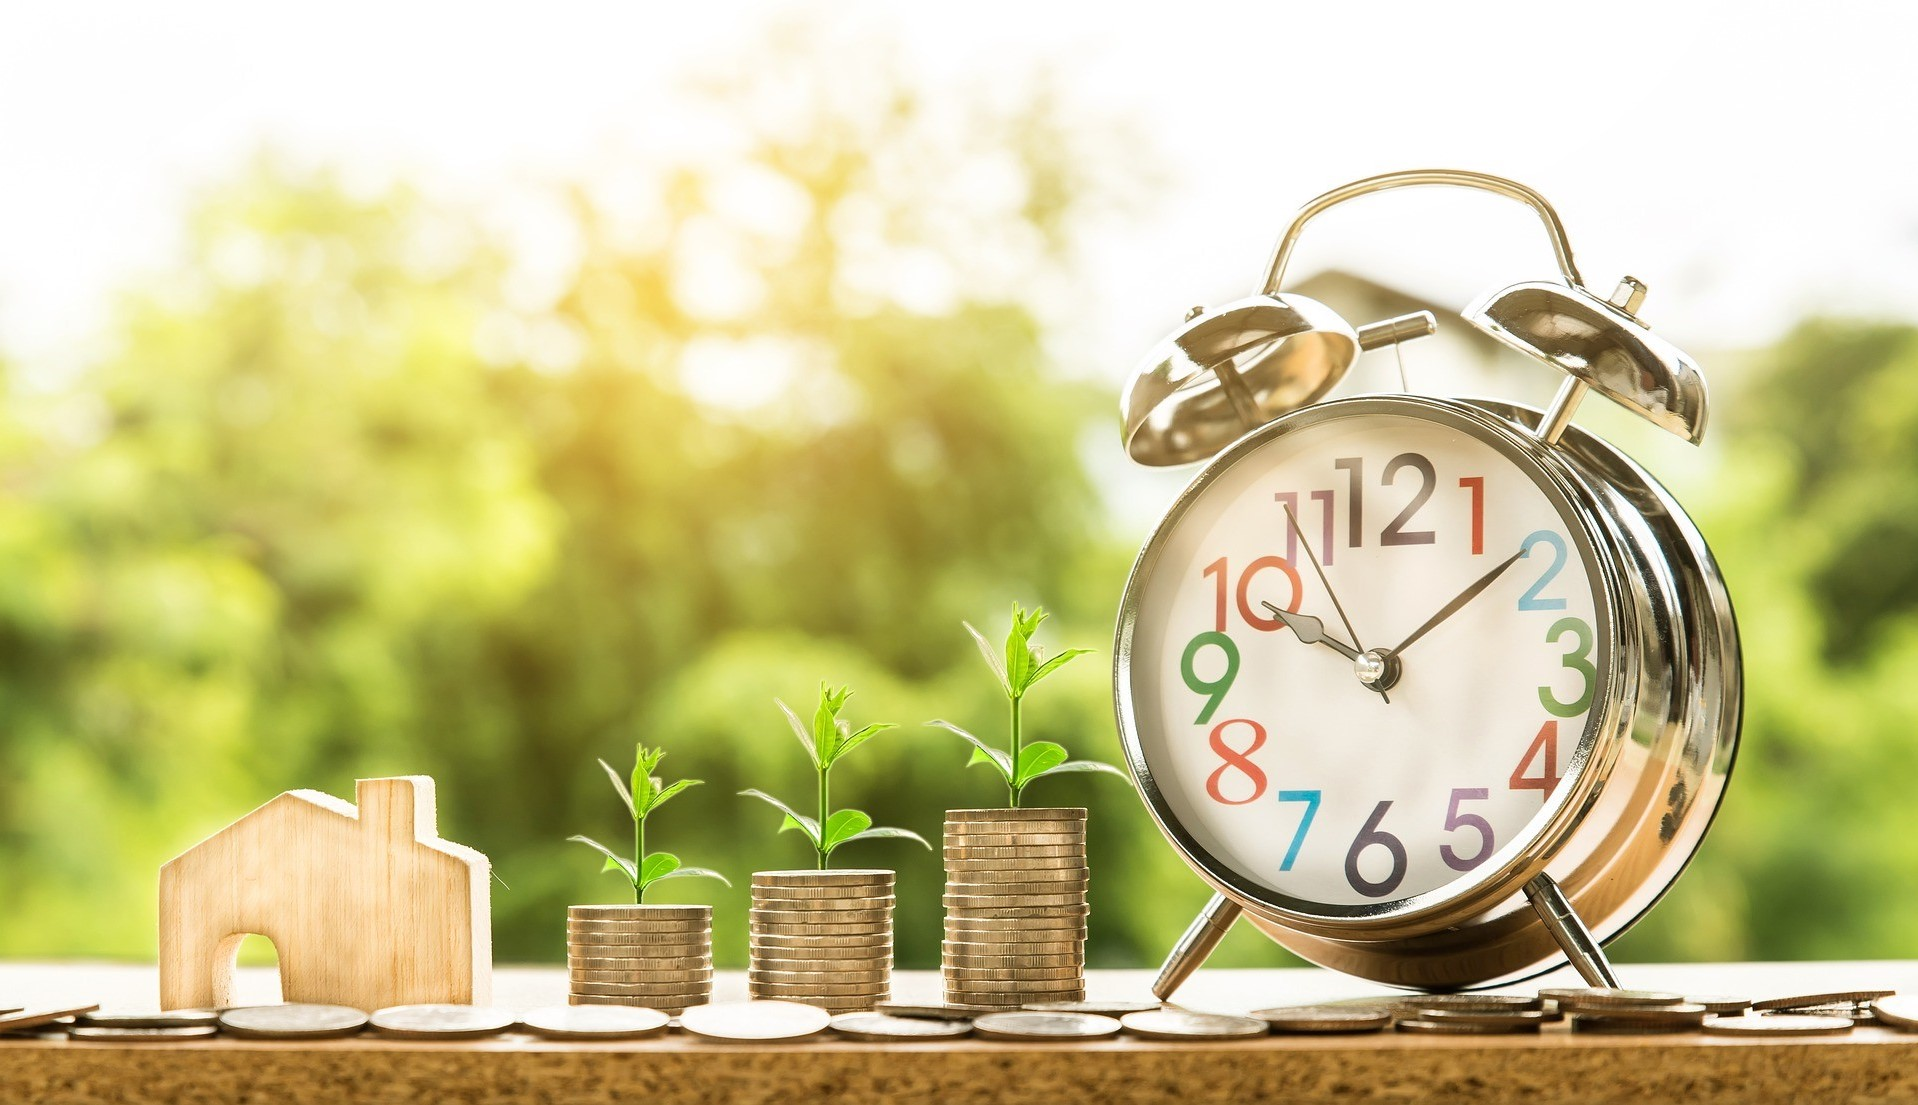
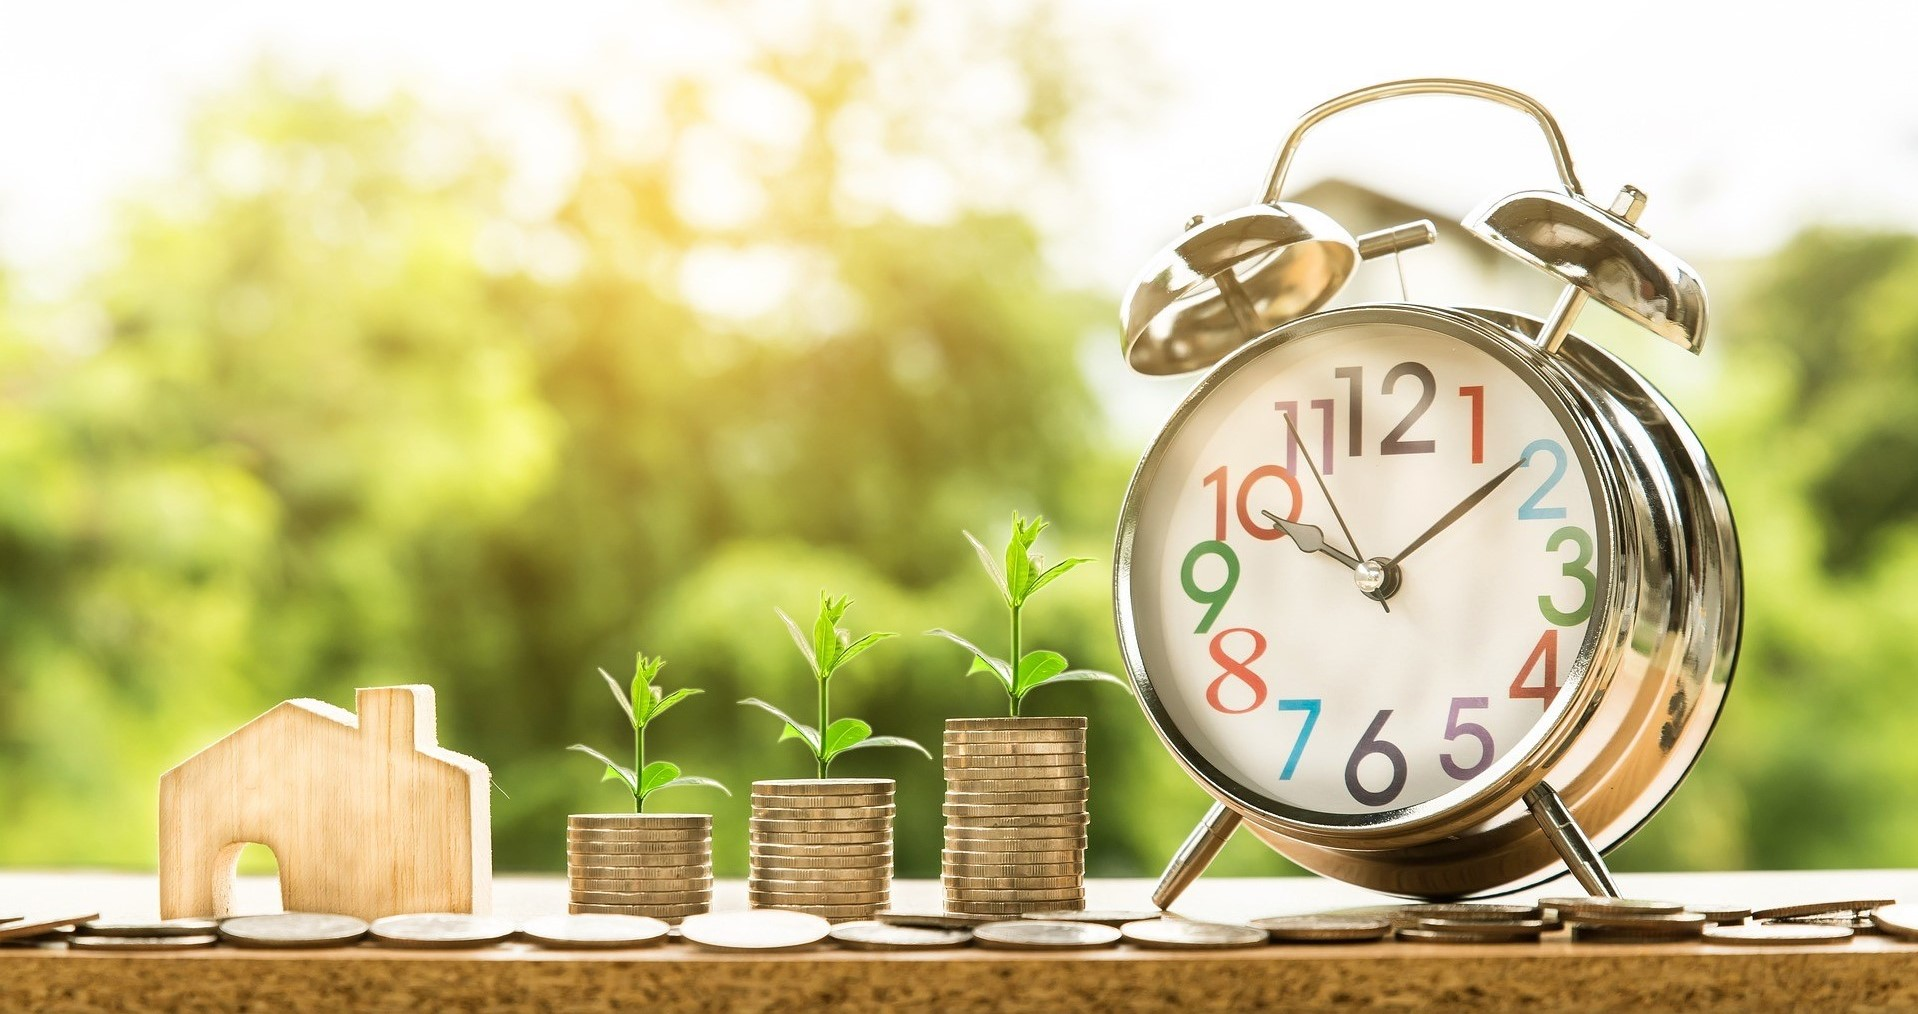
add meta

diff --git a/css/login.css b/css/login.css
@@ -1202,7 +1202,7 @@ body {
   font-family: 'Open Sans', 'Segoe UI' /*rtl:"Droid Arabic Kufi", "WYekan"*/;
   font-size: 13px;
   color: #444444;
-  background: url('../img/banner5.jpg')  no-repeat;
+  background: url('../img/banner1.jpg')  no-repeat;
   background-size: cover;
 }
 body:before {

diff --git a/header.php b/header.php
@@ -9,19 +9,22 @@ if ($_SERVER['REQUEST_URI'] == "/" || strpos($_SERVER['REQUEST_URI'], "index") !
 ?>
   <!DOCTYPE html>
   <html lang="en">
-
   <head>
-    <meta charset="utf-8">
-    <meta http-equiv="X-UA-Compatible" content="IE=edge">
-    <meta name="viewport" content="width=device-width, initial-scale=1">
-    <meta name="description" content="PHP - OOP">
-    <meta name="author" content="NottDev">
+    <!-- Twitter meta-->
+    <meta property="twitter:card" content="summary_large_image">
+    <meta property="twitter:site" content="@nottdev.com">
+    <meta property="twitter:creator" content="@NottDev">
+    <!-- Open Graph Meta-->
     <meta property="og:type" content="website">
-	  <meta property="og:site_name" content="Noob Bank">
-	  <meta property="og:title" content="Noob Bank with PHP OOP">
-	  <meta property="og:url" content="https://noobbank.nottdev.com/">
-	  <meta property="og:image" content="https://noobbank.nottdev.com/img/banner-show.png">
-    <link rel="icon" type="image/png" sizes="16x16" href="img/favicon.ico">
+    <meta property="og:site_name" content="Noob Bank">
+    <meta property="og:title" content="Noob Bank with PHP OOP">
+    <meta property="og:url" content="https://noobbank.nottdev.com/">
+    <meta property="og:image" content="https://noobbank.nottdev.com/img/banner-show.jpg">
+    <meta property="og:description" content="Web application for learning about basic web security. ">
+    <meta charset="utf-8">
+	<meta http-equiv="X-UA-Compatible" content="IE=edge">
+	<meta name="viewport" content="width=device-width, initial-scale=1">
+
     <title>Noob Bank</title>
     <!-- Bootstrap Core CSS -->
     <link href="bootstrap/dist/css/bootstrap.min.css" rel="stylesheet">
